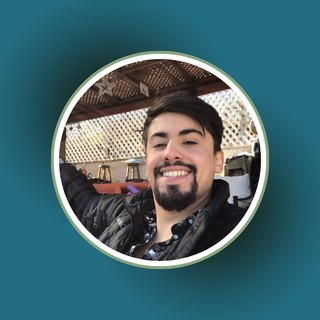
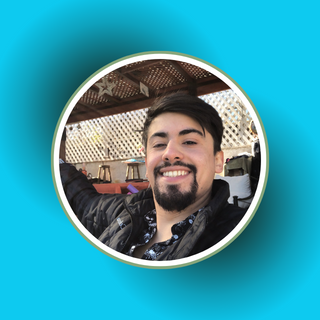
commit 6

diff --git a/index.html b/index.html
@@ -2,68 +2,132 @@
 <html lang="es">
 
 <head>
-    <meta charset="UTF-8">
-    <meta http-equiv="X-UA-Compatible" content="IE=edge">
-    <meta name="viewport" content="width=device-width, initial-scale=1.0">
-    <script src="https://kit.fontawesome.com/07370baba5.js" crossorigin="anonymous"></script>
-    <link rel="icon" type="image/png" href="assets/favicon/favicon-32x32.png">
-    <link rel="stylesheet" href="assets/css/bootstrap.css">
-    <link rel="stylesheet" href="assets/css/style.css">
-    <title>Tienda Tecno</title>
+  <meta charset="UTF-8">
+  <meta http-equiv="X-UA-Compatible" content="IE=edge">
+  <meta name="viewport" content="width=device-width, initial-scale=1.0">
+  <script src="https://kit.fontawesome.com/07370baba5.js" crossorigin="anonymous"></script>
+  <link rel="stylesheet" href="assets/css/bootstrap.css">
+  <link rel="stylesheet" href="assets/css/style.css">
+  <title>cuppon</title>
 </head>
 
-<body>
-    <nav class="navbar navbar-expand-lg bg-body-tertiary">
-        <div class="container-fluid">
-          <a class="navbar-brand" href="#">Iromeropz</a>
-          <button class="navbar-toggler" type="button" data-bs-toggle="collapse" data-bs-target="#navbarNavAltMarkup" aria-controls="navbarNavAltMarkup" aria-expanded="false" aria-label="Toggle navigation">
-            <span class="navbar-toggler-icon"></span>
-          </button>
-          <div class="collapse navbar-collapse" id="navbarNavAltMarkup">
-            <div class="navbar-nav">
-              <a class="nav-link active" aria-current="page" href="#">Home</a>
-              <a class="nav-link" href="portafolio_ignacio_romero.html">Portafolio</a>
+<body class="bg-info text-dark">
+  <nav class="navbar navbar-expand-lg bg-body-tertiary">
+    <div class="container-fluid">
+      <a class="navbar-brand" href="#">Iromeropz</a>
+      <button class="navbar-toggler" type="button" data-bs-toggle="collapse" data-bs-target="#navbarNavAltMarkup"
+        aria-controls="navbarNavAltMarkup" aria-expanded="false" aria-label="Toggle navigation">
+        <span class="navbar-toggler-icon"></span>
+      </button>
+      <div class="collapse navbar-collapse" id="navbarNavAltMarkup">
+        <div class="navbar-nav">
+          <a class="nav-link active" aria-current="page" href="#">Home</a>
+          <a class="nav-link" href="portafolio_ignacio_romero.html">Portafolio</a>
+        </div>
+      </div>
+    </div>
+  </nav>
+  <header class="hero-section">
+    <h1>Ignacio Romero</h1>
+    <p>Ingeniero en Marketing</p>
+  </header>
+  <div class="clearfix text-center my-5">
+    <img src="assets/imgs/fotoperfil2.png" class="img-fluid" alt="...">
+    <p>
+      Supervisor Digital con más de cuatro años de experiencia, los dos últimos años liderando un equipo
+      de 3 personas. Me siento cualificado y preparado para empezar una nueva experiencia profesional que me permita
+      desarrollar conceptos técnicos completos y demostrar mis habilidades.
+      Certificado en Google Ads Display, Analytics y Meta ADS.</p>
+  </div>
+  <div class="container my-5">
+    <h3 class="text-center">skills <i class="fa-solid fa-rocket-launch"></i></i></h3>
+    <div class="row">
+      <div class="col-12 col-md-6">
+        <ul>
+          <li> <strong>Trabajador proactivo</strong>
+          <li><strong>Reacciono a los problemas con rapidez</strong>
+          <li> <strong>Fácilmente accesible</strong>
+        </ul>
+      </div>
+      <h3 class="text-center">Contacto <i class="fa-solid fa-circle-user"></i></h3></h3>
+      <div class="col-12 col-md-6">
+        <ul>
+          <li> <strong>Email:</strong><span> I.romeropavez@gmail.com</span></li>
+          <li><strong>Telefono:</strong><span> +56954219789</span></li>
+          <li> <strong>Linkedin:</strong><span> https://www.linkedin.com/in/ignacio-romero-9006821bb/?jobid=1234</span>
+          </li>
+        </ul>
+      </div>
+    </div>
+  <div>
+    <div class="container my-5">
+      <div class="row">
+        <div class="col-12 col-md-6">
+          <div class="card card-width">
+            <img src="assets/imgs/desafio_1.JPG" class="card-img-top" alt="img desafio_1">
+            <div class="card-body">
+              <h5 class="card-title">Desafio HTML</h5>
+              <p class="card-text">Sigla que proviene del inglés HyperText Markup
+                Language, y que podemos traducir como un
+                lenguaje de marcas de hipertexto, que sirve para la
+                elaboración de páginas web.</p>
+              <a href="#" class="btn btn-primary">Ver Desafio</a>
             </div>
           </div>
         </div>
-      </nav>
-    <header class="hero-section">
-        <h1>Ignacio Romero</h1>
-        <p>Ingeniero en Marketing</p>
-    </header>
-    <div class="containedor">
-        <p class="fs-4">Supervisor Digital con más de cuatro años de experiencia, los dos últimos años liderando un equipo de 3
-            personas.Me siento cualificado y preparado para empezar una nueva experiencia profesional que me permita
-            desarrollar conceptos técnicos completos y demostrar mis habilidades.
-            Certificado en Google Ads Display, Analytics y Meta ADS.
-        </p>
-        <img src="assets/imgs/fotoperfil2.png" alt="foto perfil">
-    </div>
-    <div class="container my-5">
-        <h3 class="text-center">skills<i class="fa-solid fa-circle-user"></i></h3>
-        <div class="row">
-          <div class="col-12 col-md-6">
-            <ul>
-              <li> <strong>Trabajador proactivo</strong>
-              <li><strong>Reacciono a los problemas con rapidez</strong>
-              <li> <strong>Fácilmente accesible</strong>
-            </ul>
-          </div>
-          <h3 class="text-center">Contacto</h3>
-          <div class="col-12 col-md-6">
-            <ul>
-              <li> <strong>Email:</strong><span> I.romeropavez@gmail.com</span></li>
-              <li><strong>Telefono:</strong><span> +56954219789</span></li>
-              <li> <strong>Linkedin:</strong><span> https://www.linkedin.com/in/ignacio-romero-9006821bb/?jobid=1234</span></li>
-            </ul>
+        <div class="col-12 col-md-6">
+          <div class="card card-width">
+            <img src="assets/imgs/desafio_2.JPG" class="card-img-top" alt="img desafio_2">
+            <div class="card-body">
+              <h5 class="card-title">Desafio CSS</h5>
+              <p class="card-text">Some quick example text to build on the card title and make up the bulk of the card's
+                content.</p>
+              <a href="#" class="btn btn-primary">Ver Desafio</a>
+            </div>
           </div>
         </div>
       </div>
-      <footer>
-        <i class="far fa-eye fa-3x"></i>
-        <p>Visita misproyestos <a href="https://github.com/Iromeropz" target="_blank"
-                rel="nofollow">https://github.com/Iromeropz</a> para conocer más.</p>
+    </div>
+    <div class="container my-5">
+      <div class="row">
+        <div class="col-12 col-md-6">
+          <div class="card card-width">
+            <img src="assets/imgs/desafio_3.JPG" class="card-img-top" alt="img desafio_3">
+            <div class="card-body">
+              <h5 class="card-title">Desafio POSICIONAMIENTO</h5>
+              <p class="card-text">Some quick example text to build on the card title and make up the bulk of the card's
+                content.</p>
+              <a href="https://github.com/Iromeropz/iguana_page_" class="btn btn-primary">Ver Desafio</a>
+            </div>
+          </div>
+        </div>
+        <div class="col-12 col-md-6">
+          <div class="card card-width">
+            <img src="assets/imgs/desafio_4.JPG" class="card-img-top" alt="desafio_4">
+            <div class="card-body">
+              <h5 class="card-title">Desafio BOOTSTRAP</h5>
+              <p class="card-text">Some quick example text to build on the card title and make up the bulk of the card's
+                content.</p>
+              <a href="#" class="btn btn-primary">Ver Desafio</a>
+            </div>
+          </div>
+        </div>
+      </div>
+    </div>
+    <div class="mb-3">
+      <h3>Contacto</h3>
+      <label for="exampleFormControlInput1" class="form-label">Email address</label>
+      <input type="email" class="form-control" id="exampleFormControlInput1" placeholder="name@example.com">
+    </div>
+    <div class="mb-3">
+      <label for="exampleFormControlTextarea1" class="form-label">Example textarea</label>
+      <textarea class="form-control" id="exampleFormControlTextarea1" rows="3"></textarea>
+    </div>
+    <footer class="mt-3">
+      <img class="img-responsive" src="assets/Img/logo-black.png" alt="">
+      <p class="text-center text-muted">© Ignacio Romero .Todos los derechos reservados.</p>
     </footer>
+
 </body>
 
 </html>

diff --git a/assets/css/style.css b/assets/css/style.css
@@ -1,14 +1,12 @@
 @import url('https://fonts.googleapis.com/css2?family=Roboto&display=swap');
 
-* {
 
-    font-family: 'Roboto', sans-serif !important;
-    color: #fff;
-}
 
-body {
-    background-color: #236d82;
-}
+.body {
+    font-family: 'Roboto', sans-serif;
+
+    }
+
 
 .hero-section {
     width: 100%;
@@ -25,77 +23,3 @@ body {
     justify-content: center;
 }
 
-.hero-section>h1 {
-    font-size: 900;
-    font-size: 45px;
-    text-transform: uppercase;
-    margin-bottom: 15px;
-}
-
-.hero-section>p {
-    max-width: 600px;
-    font-size: 18px;
-    font-weight: 400;
-    letter-spacing: .5px;
-}
-
-footer {
-    width: 100%;
-    margin-top: 30px;
-    text-align: center;
-    background-color: #000;
-    color: #fff;
-    font-weight: 700;
-    height: 100px;
-}
-
-.icono_ig img {
-    background-repeat: no-repeat;
-    background-size: cover;
-    background-image: url(../imgs/log\ ig.png);
-    width: 50px;
-    height: 50px;
-    display: flex;
-}
-
-.containedor {
-    width: 100%;
-    height: 500px;
-    display: flex;
-    justify-content: center;
-    align-items: center;
-    gap: 106px;
-}
-
-.containedor>p {
-    width: 475px;
-    font-family: 'Roboto', sans-serif;
-    letter-spacing: 0px;
-}
-
-.containedor>img {
-    width: 300px;
-    height: 300px;
-}
-
-.row {
-    width: 100%;
-    height: 200px;
-    display: flex;
-    justify-content: center;
-    align-items: center;
-    gap: 15px;
-}
-
-footer {
-    width: 100%;
-    height: 102px;
-    background-color: #1E1A13;
-    text-align: center;
-    margin: 0;
-    padding: 39px;
-}
-
-footer a {
-    text-decoration: none;
-}
